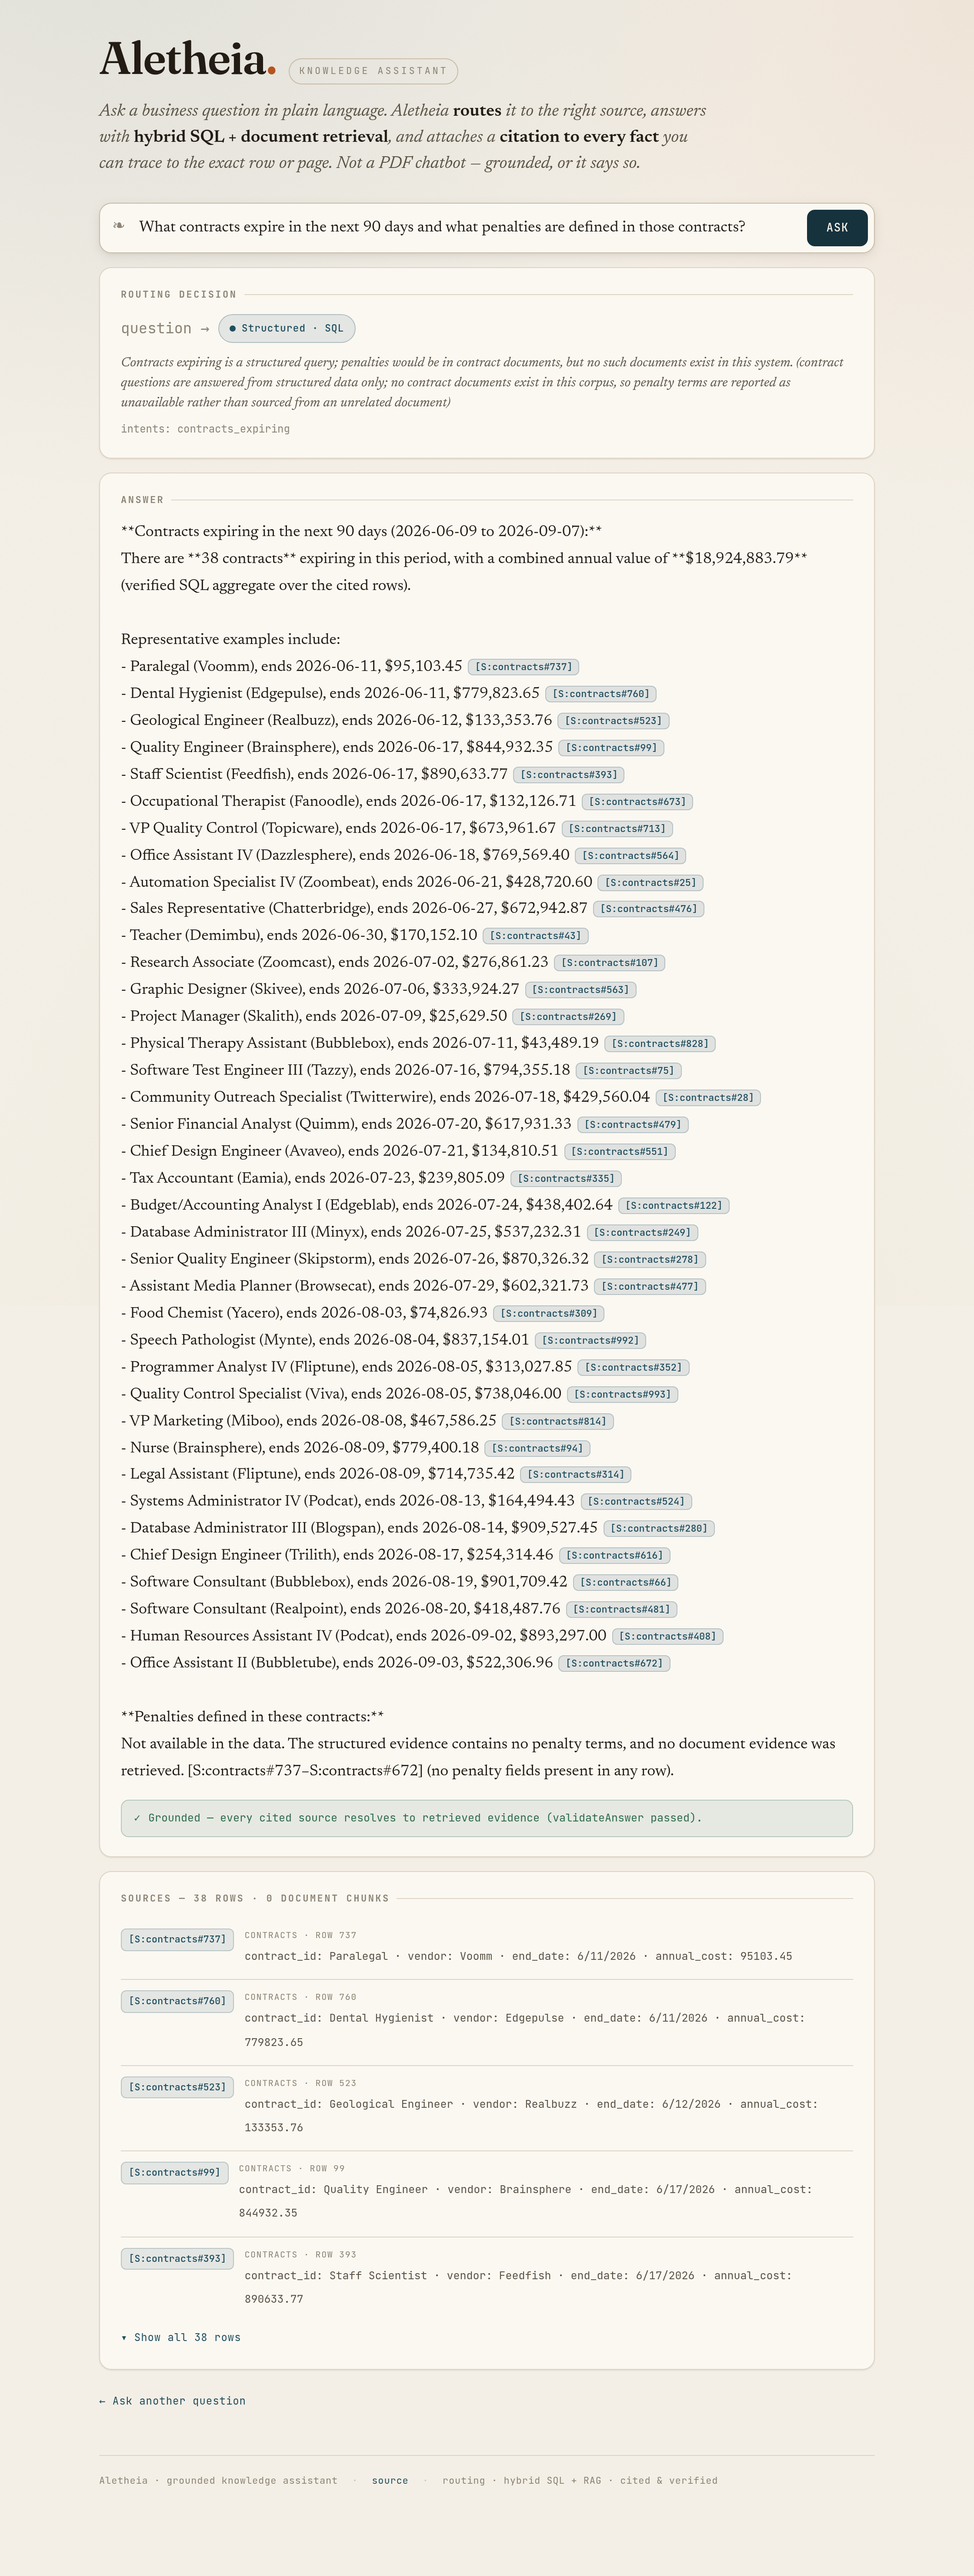
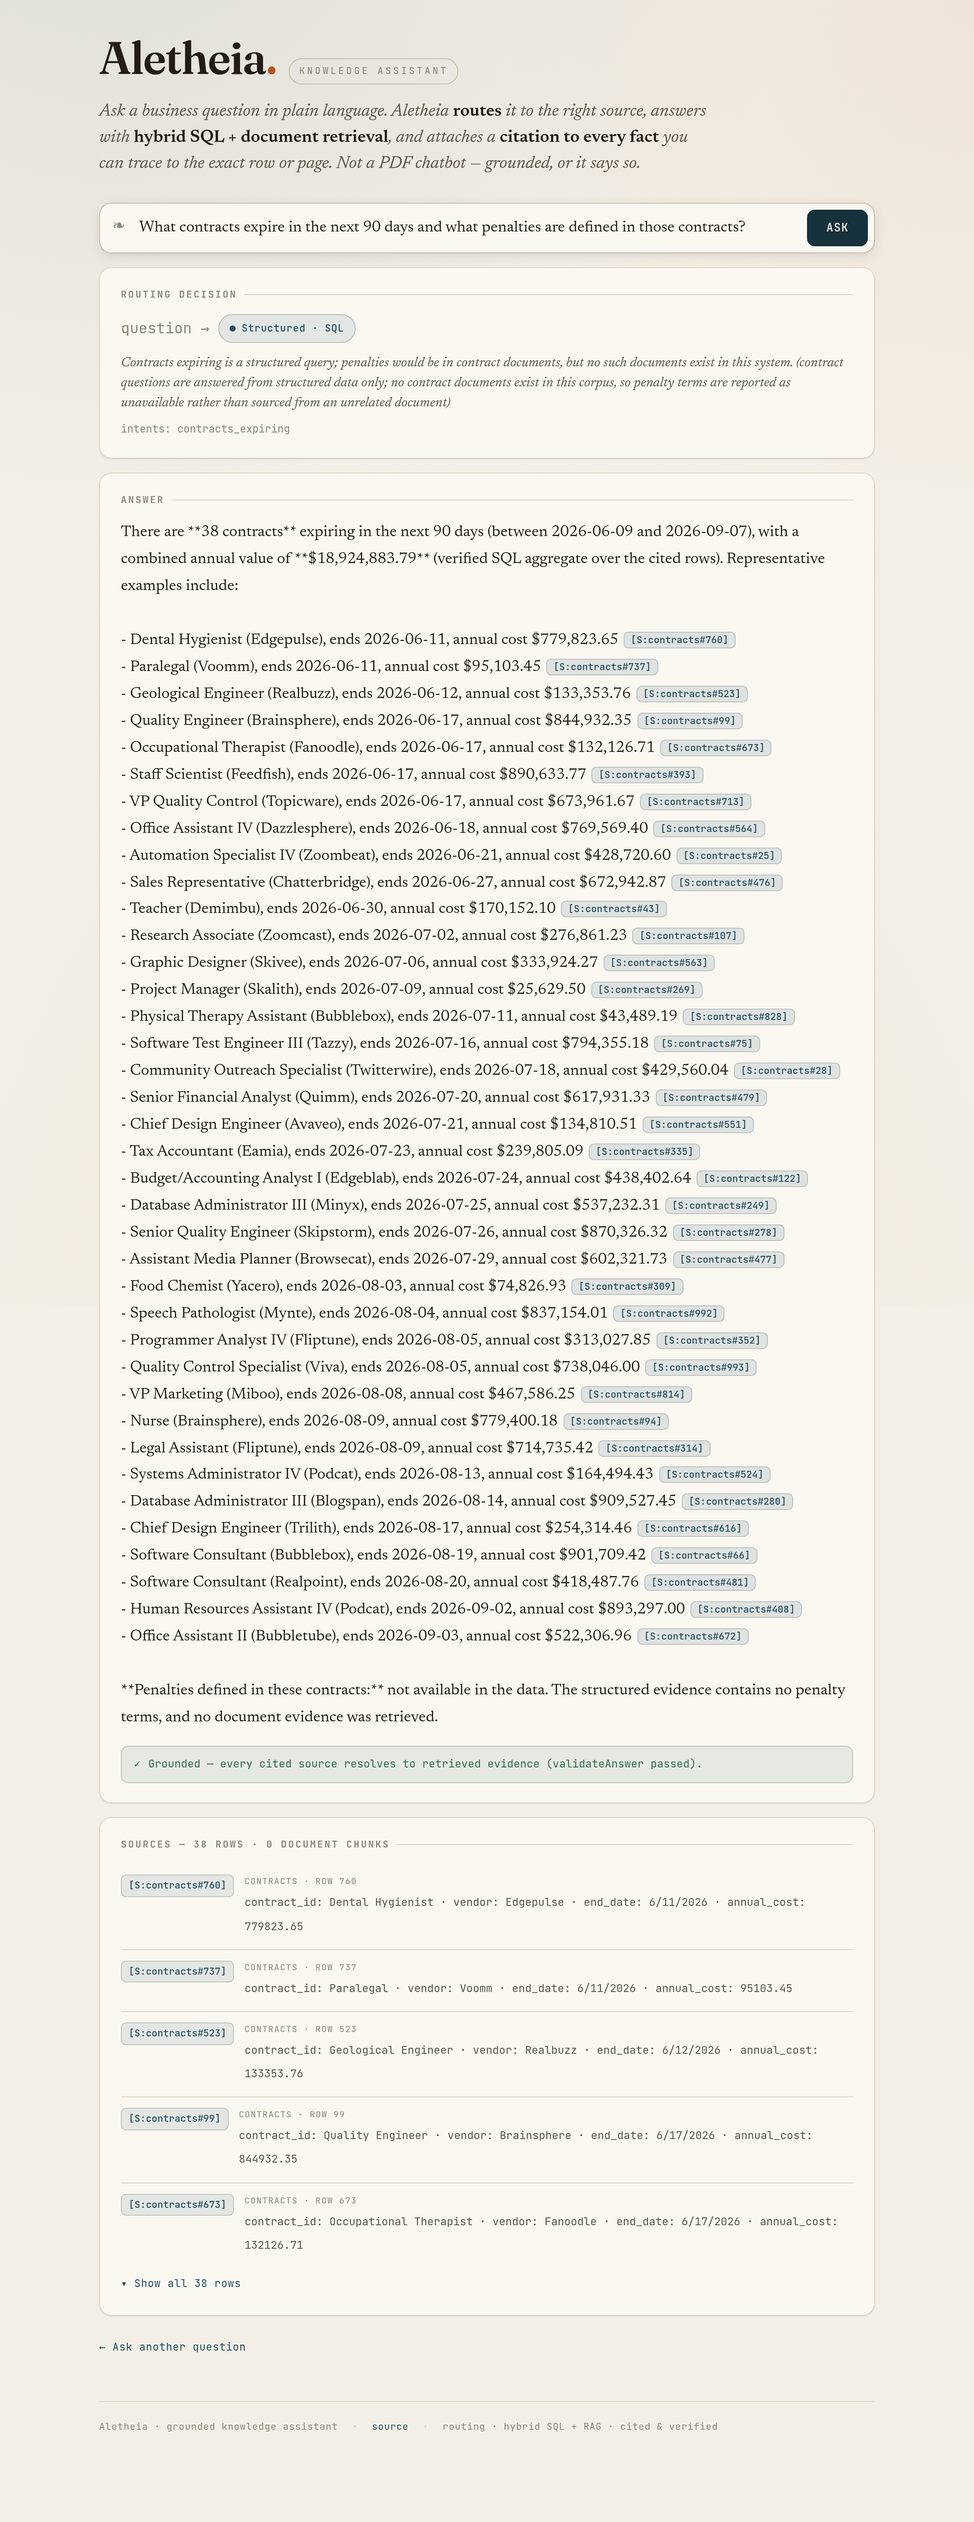
contract-intelligence: stable tiebreak for deterministic expiry order
The "earliest-expiring" list has a 4-way tie on 2026-06-17 (Brainsphere, Fanoodle,
Feedfish, Topicware). Added a stable tiebreak to both contract intents —
ORDER BY end_date_iso ASC, vendor ASC, id ASC — so the golden answer + screenshot
reproduce the same row order every run. Pinned by a unit test (the 2026-06-17 tie
must be vendor-sorted). Re-captured the two contract list screenshots to lock the
canonical order. 41 unit + contract journeys green.

diff --git a/lib/engine/intents.ts b/lib/engine/intents.ts
@@ -47,11 +47,15 @@ export const INTENTS: IntentDef[] = [
       const end = addDays(today, days);
       const rows = sqlSelect(
         "contracts",
+        // Stable tiebreak (vendor ASC, then id) so ties on End Date — e.g. the
+        // 4-way 2026-06-17 tie (Brainsphere, Fanoodle, Feedfish, Topicware) — order
+        // DETERMINISTICALLY. Without it the "earliest-expiring" list (and its golden
+        // screenshot) could reshuffle between runs.
         `SELECT id, contract_id, vendor, end_date, end_date_iso, annual_cost
          FROM contracts
          WHERE __malformed = 0 AND end_date_iso IS NOT NULL
            AND end_date_iso >= ? AND end_date_iso <= ?
-         ORDER BY end_date_iso ASC`,
+         ORDER BY end_date_iso ASC, vendor ASC, id ASC`,
         [today, end]
       );
       // Verifiable aggregate over the SAME filtered set (count + combined value).
@@ -80,7 +84,8 @@ export const INTENTS: IntentDef[] = [
       rows: sqlSelect(
         "contracts",
         `SELECT id, contract_id, vendor, start_date, end_date, annual_cost
-         FROM contracts WHERE vendor LIKE ? AND __malformed = 0 ORDER BY end_date_iso`,
+         FROM contracts WHERE vendor LIKE ? AND __malformed = 0
+         ORDER BY end_date_iso ASC, vendor ASC, id ASC`,
         [`%${params.vendor ?? ""}%`]
       ),
     }),

diff --git a/docs/features/contract-intelligence/04-implementation.md b/docs/features/contract-intelligence/04-implementation.md
@@ -23,7 +23,7 @@ Table `contracts` (built by `lib/engine/loader.ts` per `lib/engine/schema.ts`):
 ## Build order (R1 — this slice)
 
 1. **Loader** (`lib/engine/loader.ts`, `schema.ts`) — already built in the shared engine; contracts is one of its 7 tables. ISO dates derived for the window filter.
-2. **Intent** (`lib/engine/intents.ts`) — `contracts_expiring` runs the parameterized window `SELECT` AND a `COUNT(*)` / `SUM(annual_cost)` aggregate over the **same** filter, returned as the intent `summary` (the verifiable 38 / $18,924,883.79). `contracts_by_vendor` serves the single-contract case (Example C).
+2. **Intent** (`lib/engine/intents.ts`) — `contracts_expiring` runs the parameterized window `SELECT` AND a `COUNT(*)` / `SUM(annual_cost)` aggregate over the **same** filter, returned as the intent `summary` (the verifiable 38 / $18,924,883.79). `contracts_by_vendor` serves the single-contract case (Example C). **Deterministic ordering:** the list is `ORDER BY end_date_iso ASC, vendor ASC, id ASC` — a **stable tiebreak** so ties on End Date (the 4-way 2026-06-17 tie: Brainsphere, Fanoodle, Feedfish, Topicware) reproduce the same row order every run, keeping the golden answer + screenshot deterministic (pinned by `tests/unit/loader.test.mts`).
 3. **Router guard** (`lib/engine/router.ts`) — when a `contracts_*` intent is selected, the plan is forced **SQL-only** (documents dropped). This is the cross-domain-leak prevention (J1) at the strongest layer: no Carter chunk ever enters evidence.
 4. **Grounding** (`lib/engine/answer.ts`) — the verified aggregate is injected into the generation prompt ("state these exact figures"); the prompt requires single-id citation tokens in every language.
 5. **Feature gate** (`lib/engine/validate-contract-answer.ts`) — `validateContractAnswer()` runs in the answer path for contract turns: verifiable count, row citations, honest penalty-unavailable, no Carter tokens, defect honesty. Its failures are merged into the response `validation`.
